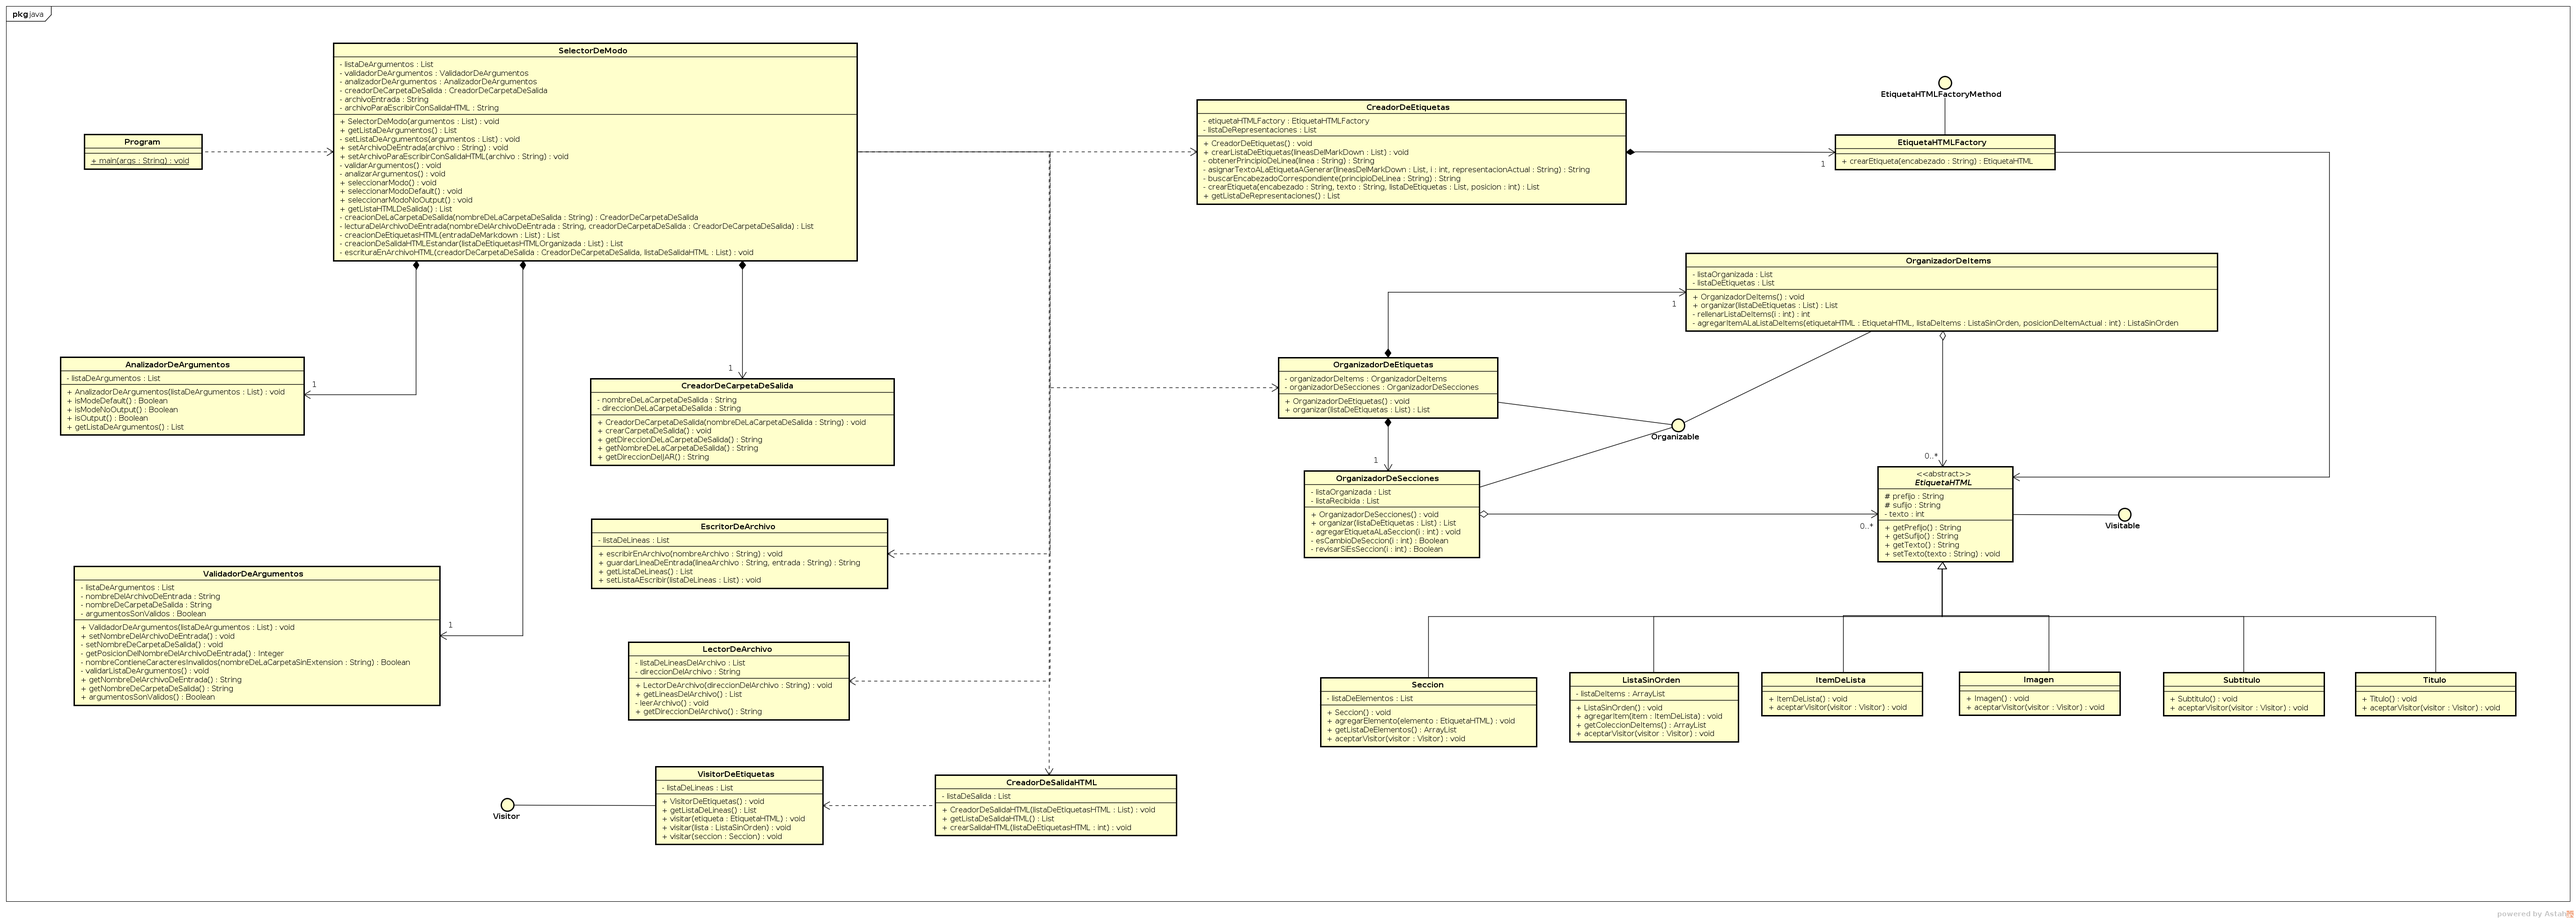
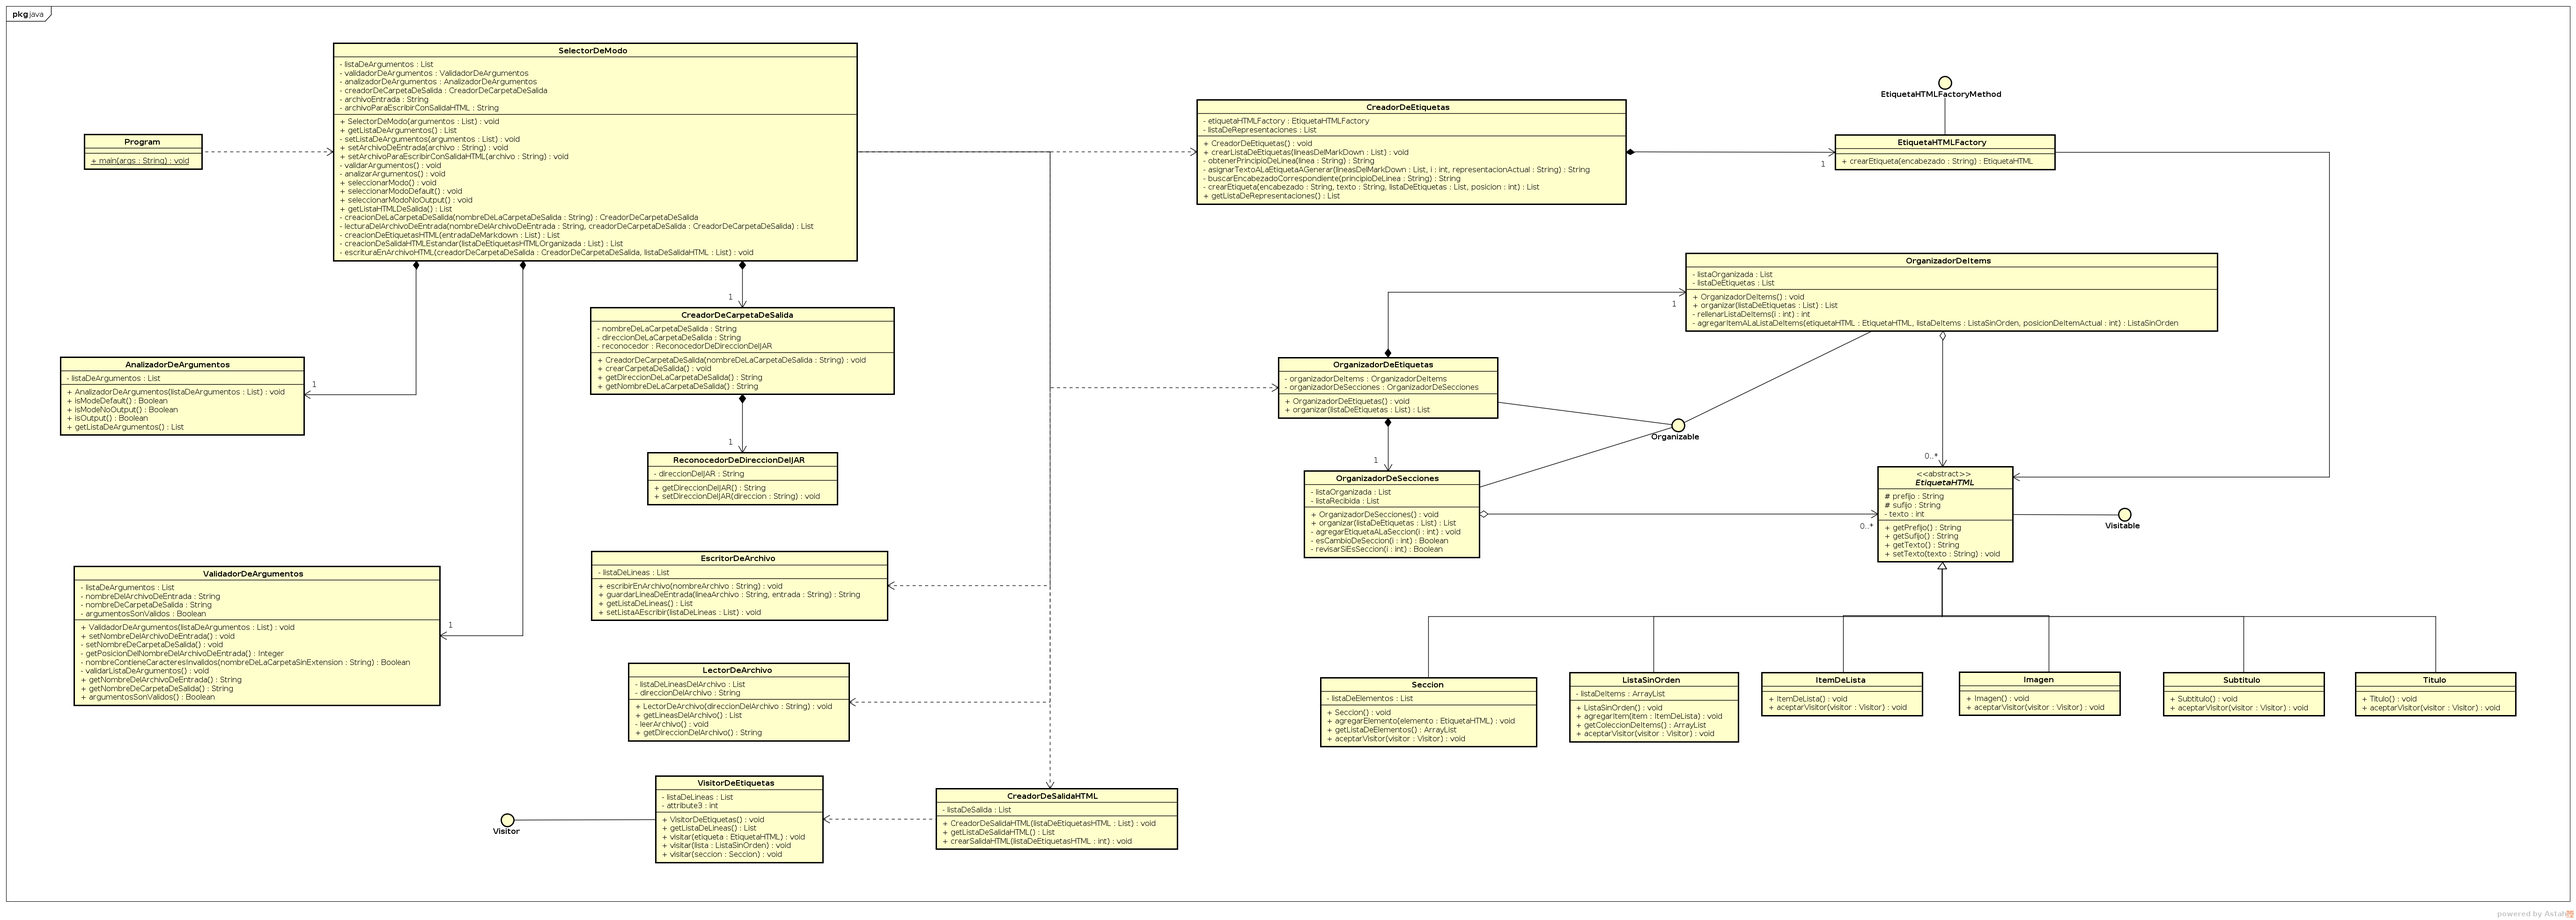
Actualizado diagrama de clases y corregidos pequeños detalles de estilo Java.

Changed region(s): [[0.2176, 0.3103, 0.4663, 0.9619], [0.1865, 0.8688, 0.2176, 0.8998]]

diff --git a/src/main/java/ar/edu/untref/aydoo/CreadorDeCarpetaDeSalida.java b/src/main/java/ar/edu/untref/aydoo/CreadorDeCarpetaDeSalida.java
@@ -9,23 +9,23 @@ public class CreadorDeCarpetaDeSalida {
 
 	private String nombreDeLaCarpetaDeSalida;
 	private String direccionDeLaCarpetaDeSalida;
-	private ReconocedorDeDireccionDelJar reconocedor;
+	private ReconocedorDeDireccionDelJAR reconocedor;
 
 	public CreadorDeCarpetaDeSalida(String nombreDeLaCarpetaDeSalida) throws IOException {
 		this.nombreDeLaCarpetaDeSalida = nombreDeLaCarpetaDeSalida;
-		this.reconocedor = new ReconocedorDeDireccionDelJar();
-		this.direccionDeLaCarpetaDeSalida = this.reconocedor.getDireccionDelJar() + "/" + nombreDeLaCarpetaDeSalida;
+		this.reconocedor = new ReconocedorDeDireccionDelJAR();
+		this.direccionDeLaCarpetaDeSalida = this.reconocedor.getDireccionDelJAR() + "/" + nombreDeLaCarpetaDeSalida;
 	}
 
 	public void crearCarpetaDeSalida() {	
-		File directorioFuente = new File(this.reconocedor.getDireccionDelJar() + "/plantilla");
+		File directorioFuente = new File(this.reconocedor.getDireccionDelJAR() + "/plantilla");
 		File carpetaDeSalida = new File(this.direccionDeLaCarpetaDeSalida);
 
 		try {
 			FileUtils.copyDirectory(directorioFuente, carpetaDeSalida);
 		} catch (IOException e) {
 			//Solo para test
-			this.reconocedor.setDireccionDelJar("");
+			this.reconocedor.setDireccionDelJAR("");
 		}
 	}
 

diff --git a/src/main/java/ar/edu/untref/aydoo/ReconocedorDeDireccionDelJAR.java b/src/main/java/ar/edu/untref/aydoo/ReconocedorDeDireccionDelJAR.java
@@ -1,0 +1,26 @@
+package ar.edu.untref.aydoo;
+
+import java.io.File;
+
+public class ReconocedorDeDireccionDelJAR {
+
+	private File archivo;
+	private File direccion;
+	private String direccionDelJAR;
+
+	public ReconocedorDeDireccionDelJAR(){
+		//Se obtiene de la direccion del JAR, ubicado al lado de la carpeta de salida
+		this.archivo = new File(System.getProperty("java.class.path"));
+		this.direccion = archivo.getAbsoluteFile().getParentFile();	
+		this.direccionDelJAR = direccion.toString();
+	}
+
+	public String getDireccionDelJAR() {
+		return this.direccionDelJAR;
+	}
+
+	public void setDireccionDelJAR(String direccion){
+		this.direccionDelJAR = direccion;
+	}		
+
+}

diff --git a/src/test/java/ar/edu/untref/aydoo/ReconocedorDeDireccionTest.java b/src/test/java/ar/edu/untref/aydoo/ReconocedorDeDireccionTest.java
@@ -15,8 +15,8 @@ public class ReconocedorDeDireccionTest {
 		File direccion = archivo.getAbsoluteFile().getParentFile();		
 		String direccionDelJAR = direccion.toString();
 		
-		ReconocedorDeDireccionDelJar reconocedor = new ReconocedorDeDireccionDelJar();
-		String direccionAlmacenadaDelJAR = reconocedor.getDireccionDelJar();
+		ReconocedorDeDireccionDelJAR reconocedor = new ReconocedorDeDireccionDelJAR();
+		String direccionAlmacenadaDelJAR = reconocedor.getDireccionDelJAR();
 		
 		Assert.assertEquals(direccionDelJAR, direccionAlmacenadaDelJAR);
 	}

diff --git a/src/main/java/ar/edu/untref/aydoo/SelectorDeModo.java b/src/main/java/ar/edu/untref/aydoo/SelectorDeModo.java
@@ -61,7 +61,7 @@ public class SelectorDeModo {
 	public void seleccionarModoDefault() throws IOException {		
 		//Se escribe en el archivo index.html la salida HTML estandar
 		this.creadorDeCarpetaDeSalida = creacionDeLaCarpetaDeSalida(this.validadorDeArgumentos.getNombreDeCarpetaDeSalida());
-		escrituraEnArchivoHTML(creadorDeCarpetaDeSalida, this.getListaHTMLDeSalida());
+		this.escrituraEnArchivoHTML(creadorDeCarpetaDeSalida, this.getListaHTMLDeSalida());
 		System.out.println("El archivo fue exportado con exito.");
 	}
 
